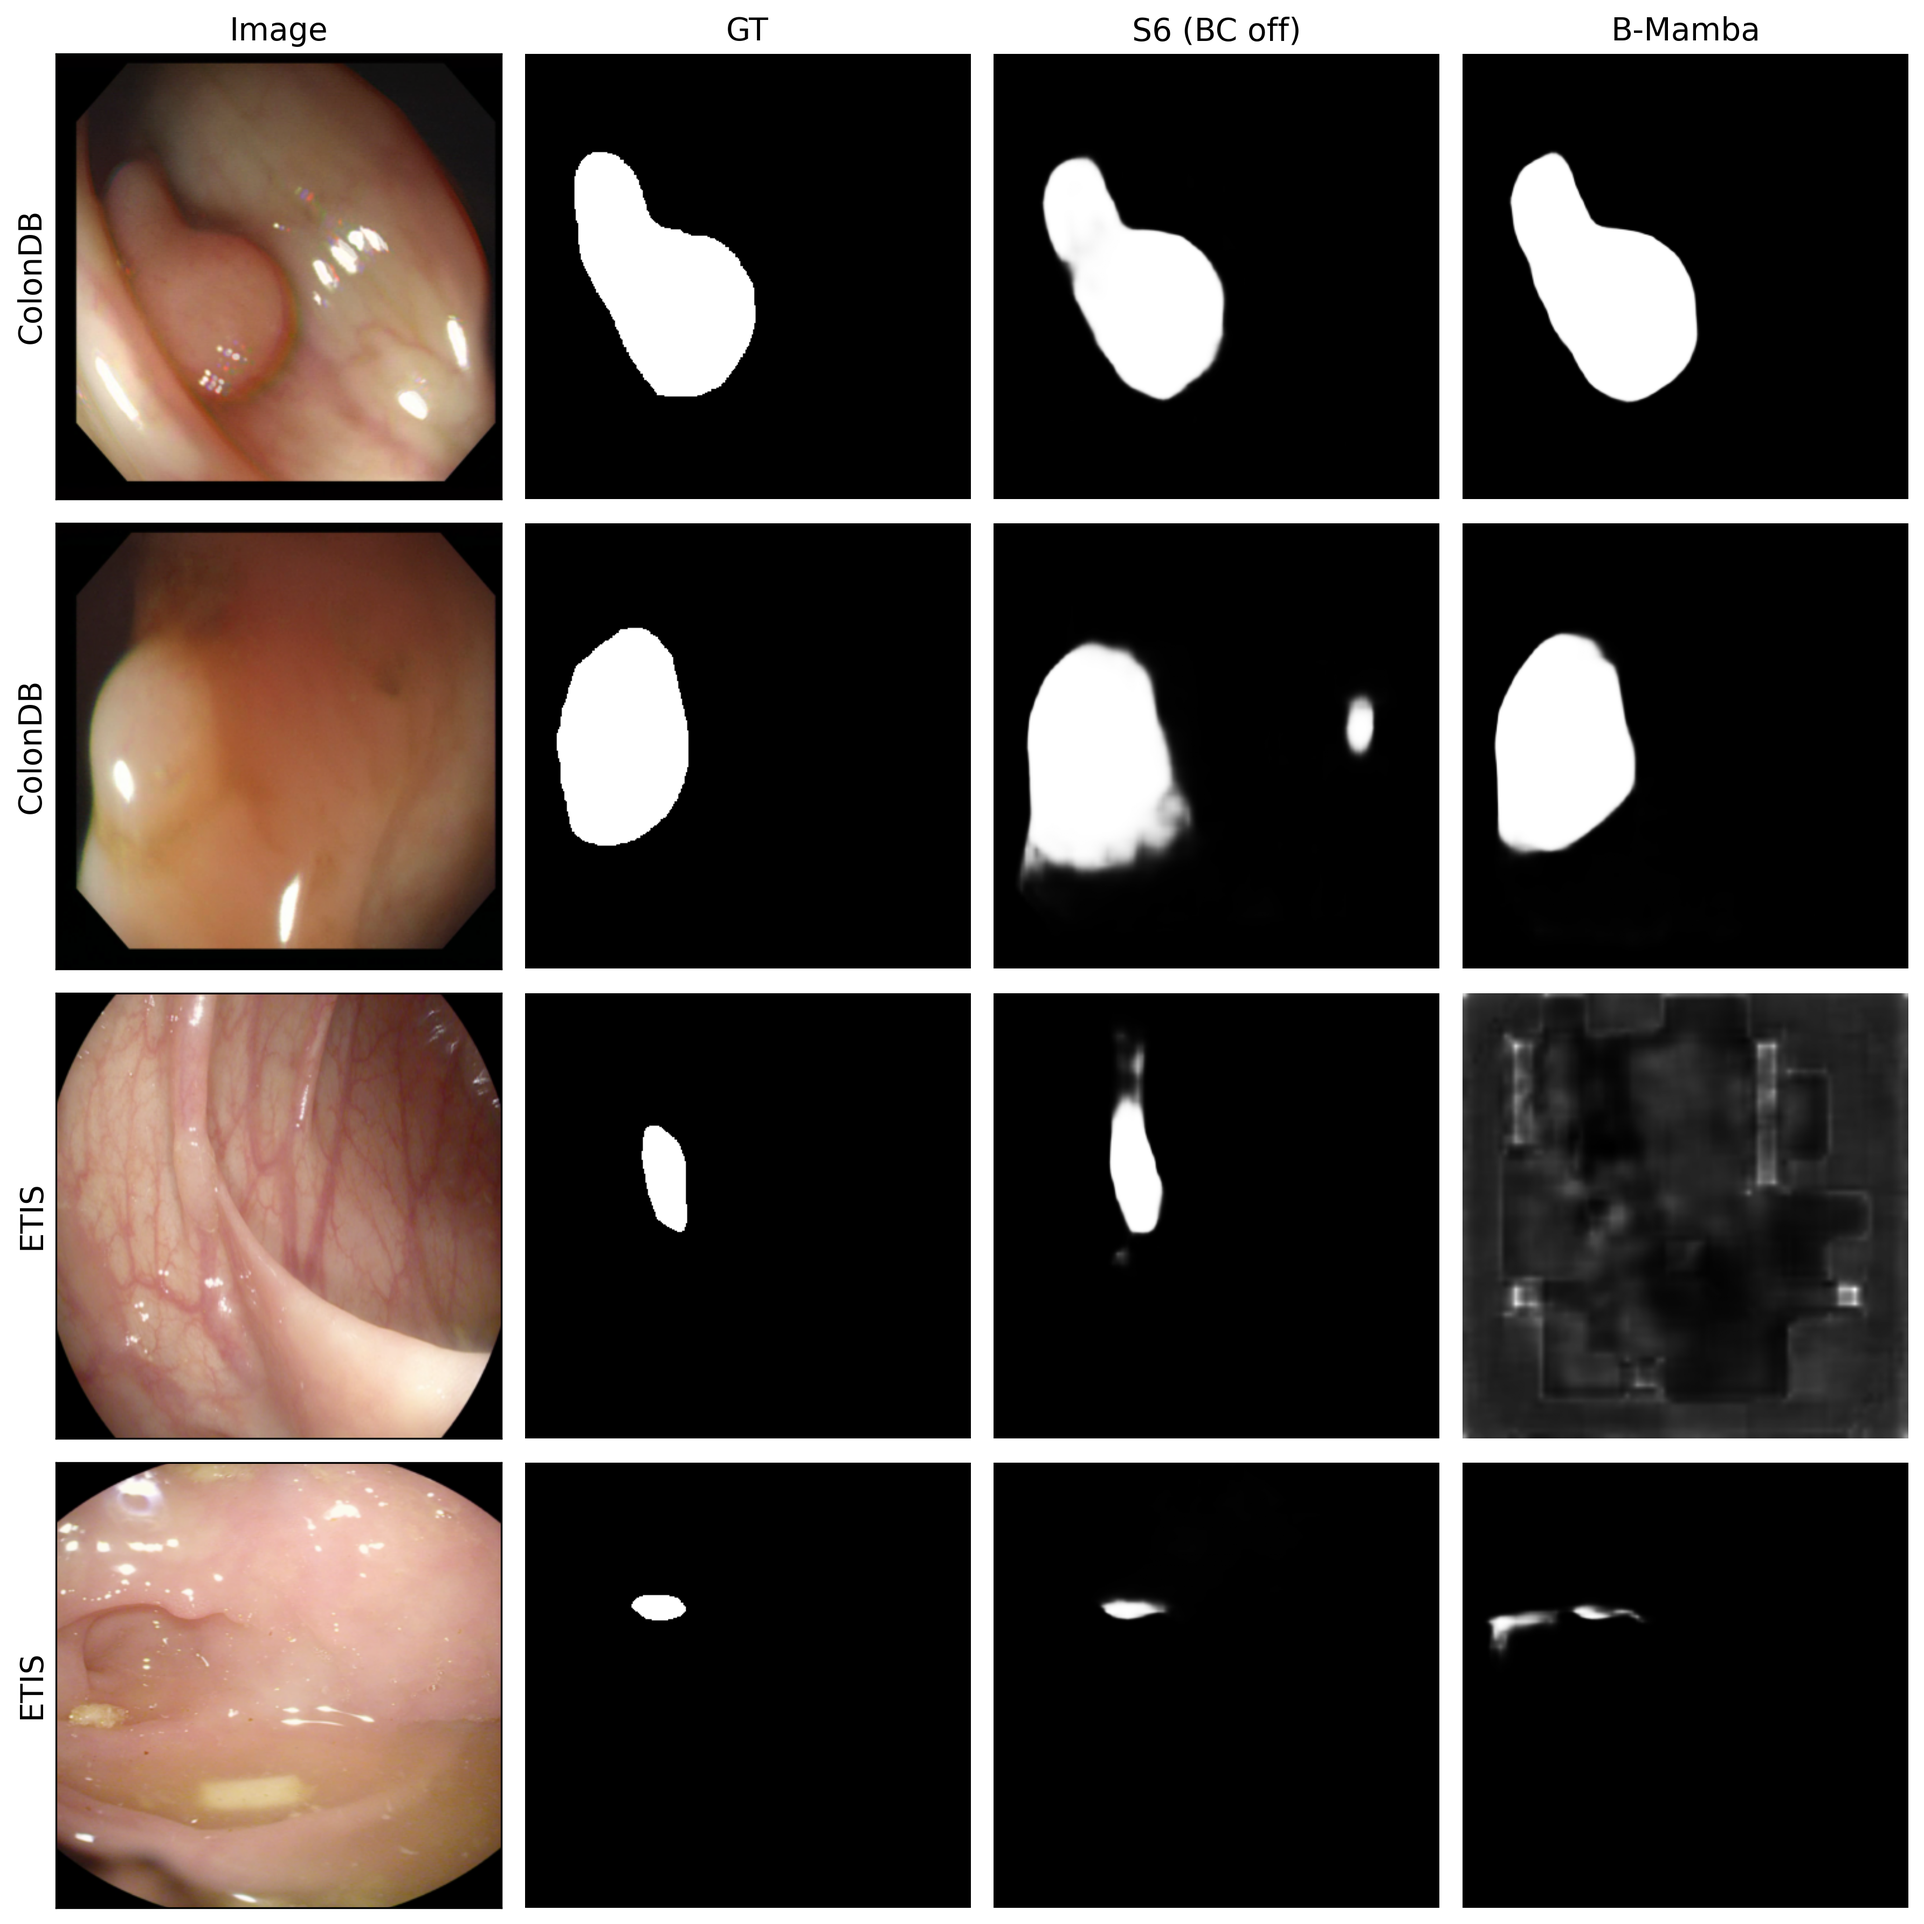
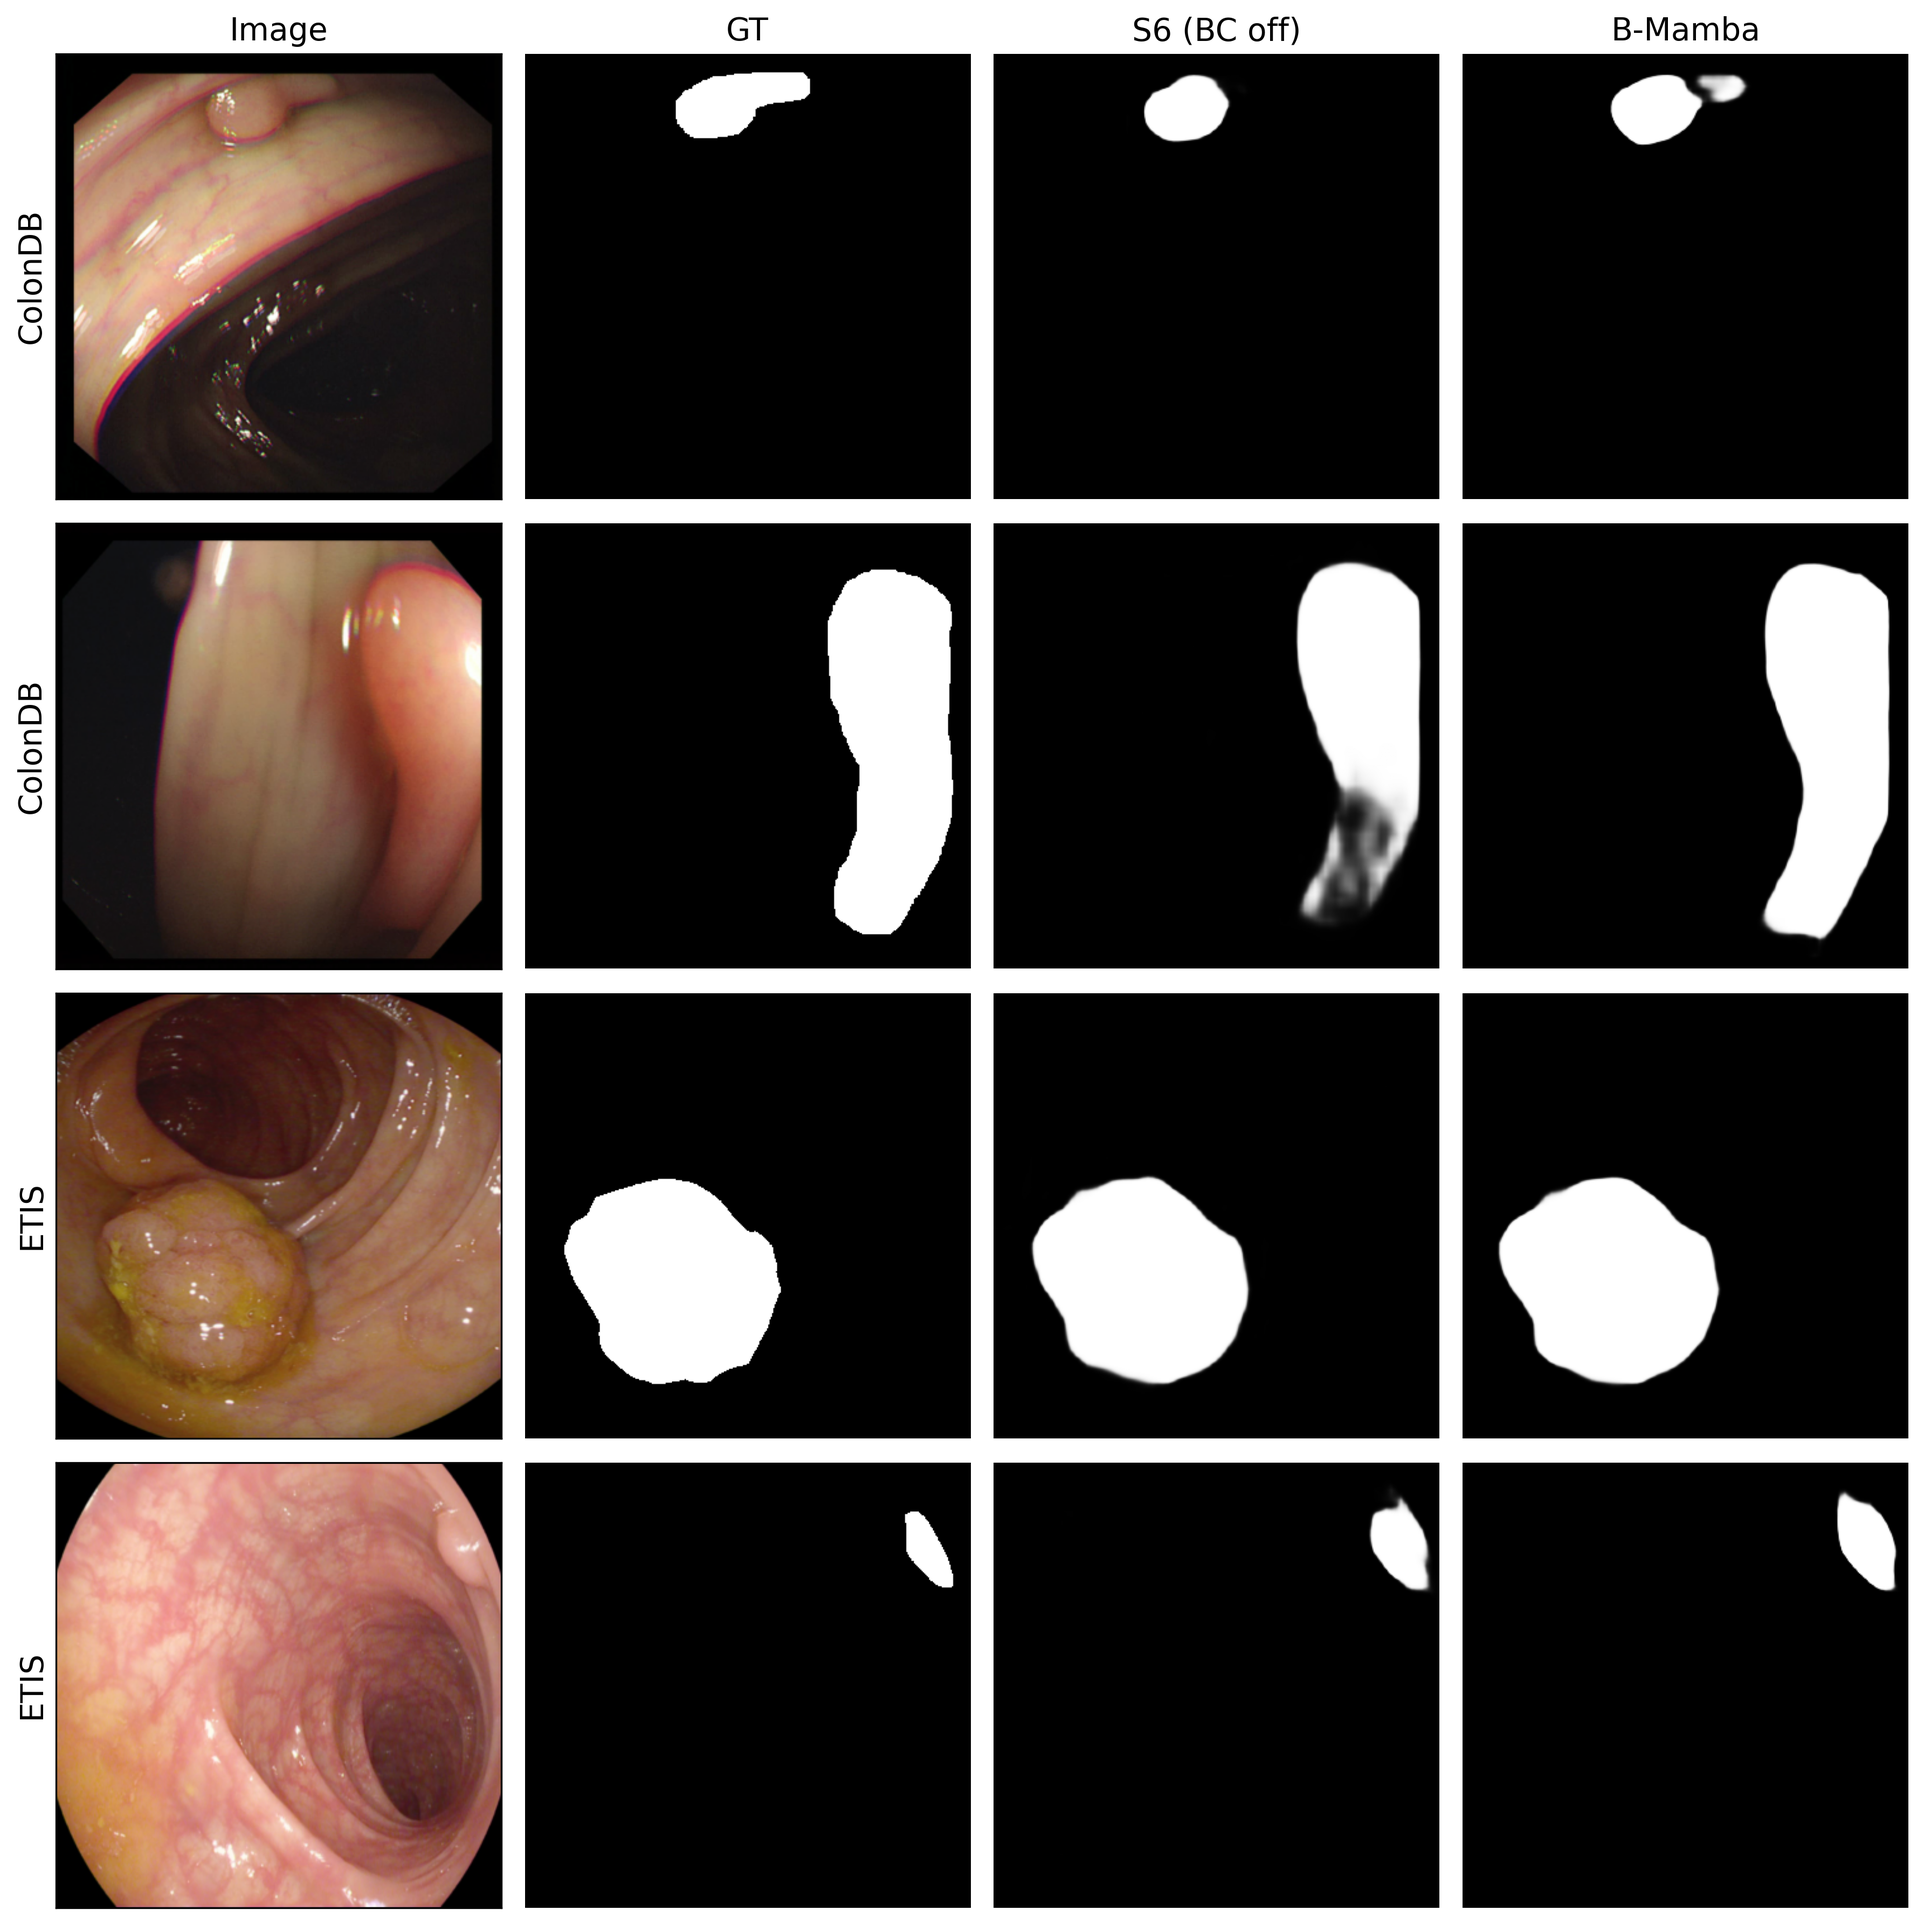
Update qualitative figure indices

diff --git a/visualize_qualitative.py b/visualize_qualitative.py
@@ -29,7 +29,7 @@ def visualize():
     for name, img_root, gt_root in datasets:
         dataset = PolypDataset(img_root, gt_root, trainsize=352)
         # Select 2 images from each dataset
-        for idx in [5, 12]:
+        for idx in [20, 25]:
             img, gt = dataset[idx]
             samples.append((name, img, gt))
             
